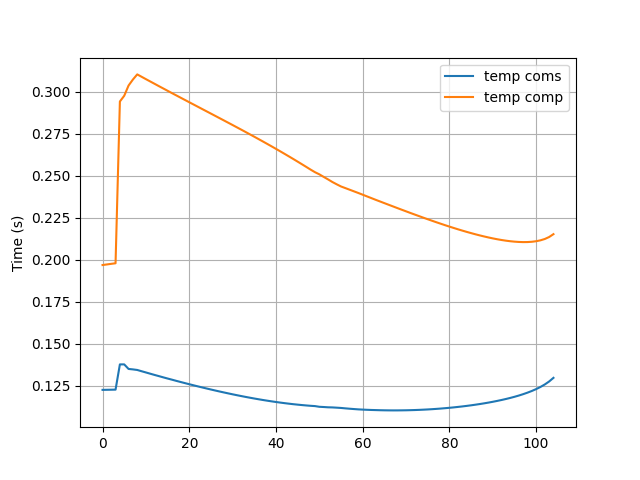
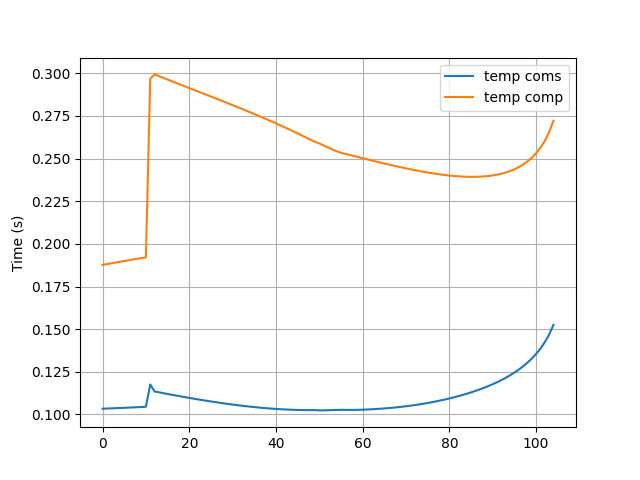
comparison - checking stopping conditions for s1, s3

diff --git a/examples/plot_comparison.py b/examples/plot_comparison.py
@@ -122,22 +122,22 @@ def plot_tien_bar():
     t_co_3, t_cp_3, e_co_3, e_cp_3 = parse_net_tien(prefix_log + 's3/' + log_file)
     t_co_4, t_cp_4, e_co_4, e_cp_4 = parse_net_tien(prefix_log + 's4/' + log_file)
 
-    max_round = min(len(t_co_1), len(t_co_2), len(t_co_3), len(t_co_4))
+    max_round_fixedi = min(len(t_co_1), len(t_co_3))
     
-    t_co_1 = t_co_1.sum()
-    t_cp_1 = t_cp_1.sum()
-    e_co_1 = e_co_1.sum()
-    e_cp_1 = e_cp_1.sum()
+    t_co_1 = t_co_1[:max_round_fixedi].sum()
+    t_cp_1 = t_cp_1[:max_round_fixedi].sum()
+    e_co_1 = e_co_1[:max_round_fixedi].sum()
+    e_cp_1 = e_cp_1[:max_round_fixedi].sum()
 
     t_co_2 = t_co_2.sum()
     t_cp_2 = t_cp_2.sum()
     e_co_2 = e_co_2.sum()
     e_cp_2 = e_cp_2.sum()
 
-    t_co_3 = t_co_3.sum()
-    t_cp_3 = t_cp_3.sum()
-    e_co_3 = e_co_3.sum()
-    e_cp_3 = e_cp_3.sum()
+    t_co_3 = t_co_3[:max_round_fixedi].sum()
+    t_cp_3 = t_cp_3[:max_round_fixedi].sum()
+    e_co_3 = e_co_3[:max_round_fixedi].sum()
+    e_cp_3 = e_cp_3[:max_round_fixedi].sum()
 
     t_co_4 = t_co_4.sum()
     t_cp_4 = t_cp_4.sum()
@@ -169,7 +169,7 @@ def plot_tien_bar():
 
     # ax.set_xlabel("Number of IDs", fontsize = 12)
     ax.set_ylabel('Time (s) ', fontsize = 12)
-    ax.set_ylim(0, 40)
+    ax.set_ylim(0, 50)
     # plt.grid(True, axis = 'y', color = '0.6', linestyle = '-')
     
     ax.set_xticks(ind+width+space,['t_co', 't_cp', 'total'])
@@ -210,7 +210,7 @@ def plot_tien_bar():
     bar4 = ax.bar(space*3 + ind+width*3, en_4, width,  color = 'none', hatch = 'xx', edgecolor = 'tab:red', linewidth = 1)
 
     ax.set_ylabel('Energy (J) ', fontsize = 12)
-    ax.set_ylim(0, 1.4)
+    ax.set_ylim(0, 0.2)
     # plt.grid(True, axis = 'y', color = '0.6', linestyle = '-')
     
     ax.set_xticks(ind+width+space,['e_co', 'e_cp', 'total'])
@@ -228,7 +228,7 @@ def plot_tien_bar():
     for rect, label in zip(rects, labels):
         height = rect.get_height()
         ax.text(
-            rect.get_x() + rect.get_width() / 2, height + 0.03, label, ha="center", va="bottom"
+            rect.get_x() + rect.get_width() / 2, height + 0.008, label, ha="center", va="bottom"
         )
 
     plt.savefig(prefix_fig + fig_file_ene, bbox_inches='tight')

diff --git a/examples/network_params.py b/examples/network_params.py
@@ -7,7 +7,7 @@ delta_lr = 5*1e-3 # TODO Learning rate of local surrogate function
 gamma_cv = 3 # strongly convex constant of the loss function
 
 k_switch = 1e-28 # switch capacity, depends on chip's architecture 
-C_n = 0.8*1e4 # TODO: testback # number of cpu cycles per sample 
+C_n = 1e4 # TODO: testback # number of cpu cycles per sample 
 # D_n = 100 # data size, number of samples, varies  
 freq_max = 2 * 1e9 # 2GHz -> Hz, maximum cpu computation frequency 
 
